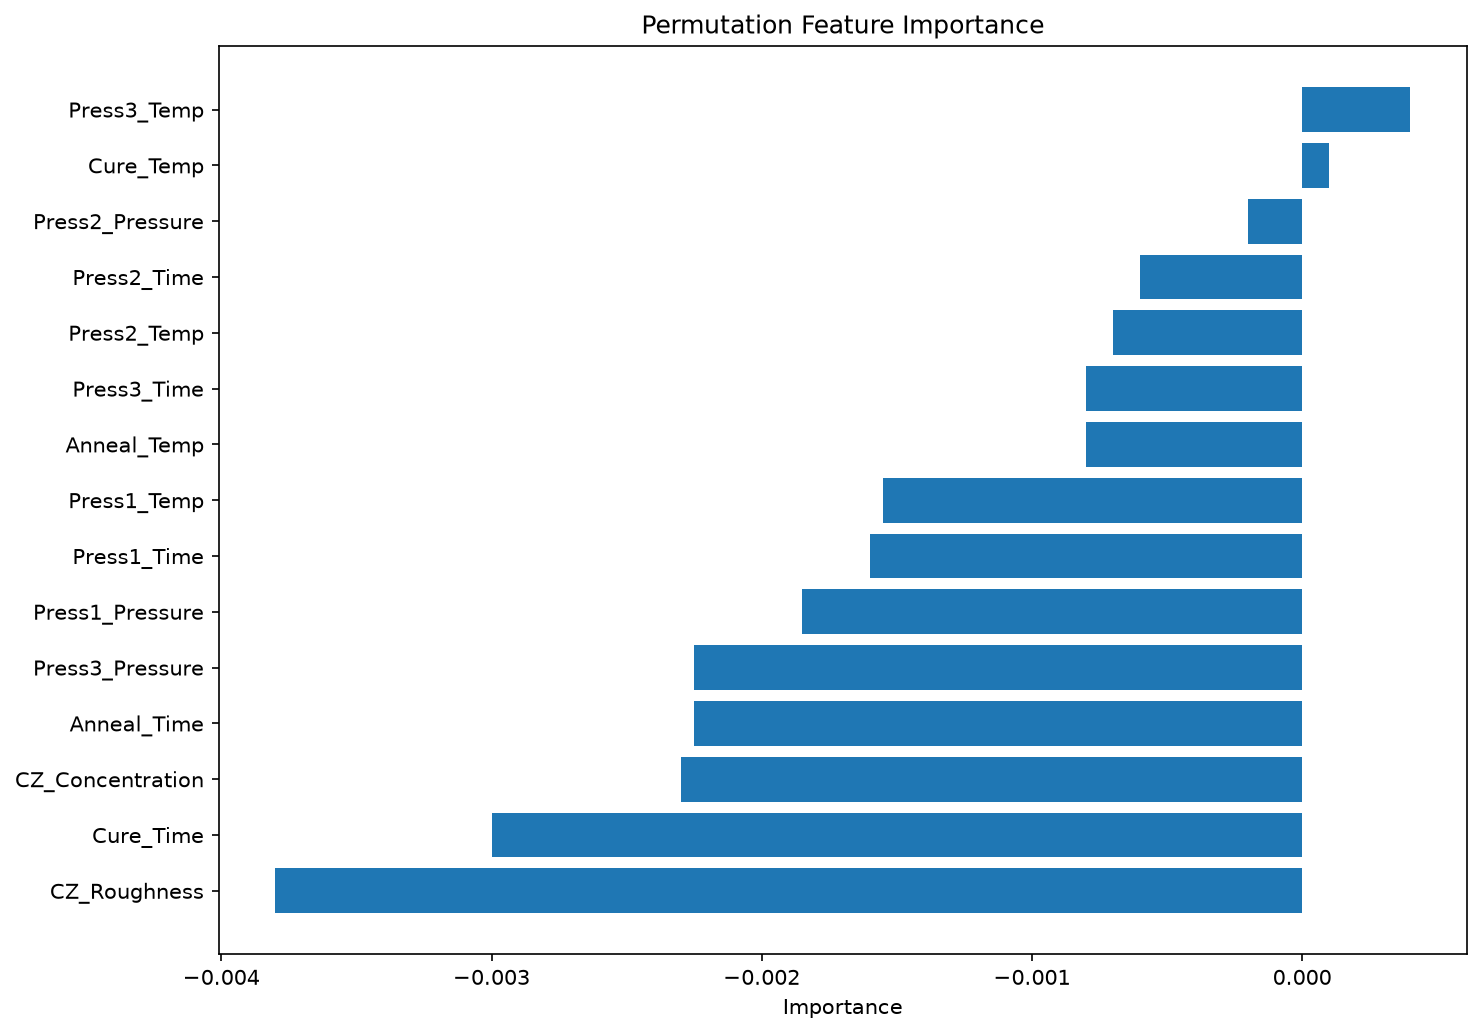
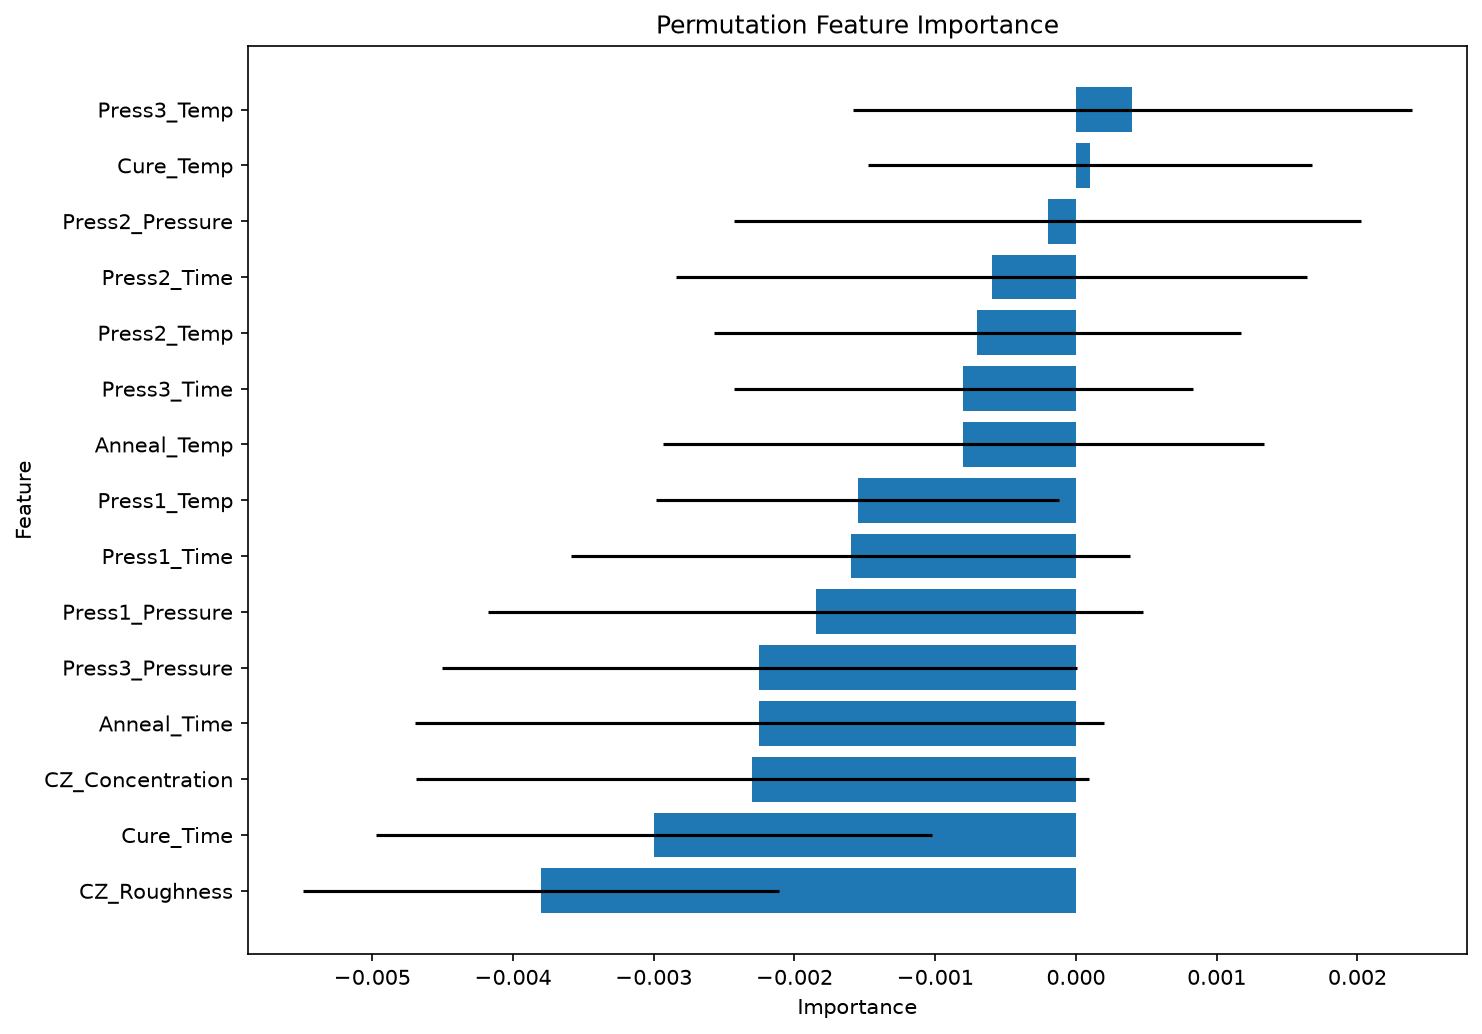
refactor: Apply configuration to random forest analysis

diff --git a/src/ml/random_forest.py b/src/ml/random_forest.py
@@ -8,6 +8,7 @@ from sklearn.inspection import permutation_importance
 from sklearn.metrics import accuracy_score, classification_report
 from sklearn.model_selection import train_test_split
 
+from src.config import CONFIG
 from src.data.loader import load_process_data
 
 
@@ -31,120 +32,153 @@ FEATURES = [
 
 TARGET = "Defect"
 
+RANDOM_STATE = CONFIG["data"]["random_state"]
+TEST_SIZE = CONFIG["model"]["test_size"]
+N_ESTIMATORS = CONFIG["model"]["n_estimators"]
 
-def main():
 
-    project_root = Path(__file__).resolve().parents[2]
+def get_project_root() -> Path:
+    return Path(__file__).resolve().parents[2]
+
+
+def main() -> None:
+    project_root = get_project_root()
 
     image_dir = project_root / "images"
-    image_dir.mkdir(exist_ok=True)
+    image_dir.mkdir(parents=True, exist_ok=True)
 
     report_dir = project_root / "report"
-    report_dir.mkdir(exist_ok=True)
+    report_dir.mkdir(parents=True, exist_ok=True)
 
     df = load_process_data()
 
-    X = df[FEATURES]
+    x = df[FEATURES]
     y = df[TARGET]
 
-    X_train, X_test, y_train, y_test = train_test_split(
-        X,
+    x_train, x_test, y_train, y_test = train_test_split(
+        x,
         y,
-        test_size=0.2,
-        random_state=42,
+        test_size=TEST_SIZE,
+        random_state=RANDOM_STATE,
         stratify=y,
     )
 
     model = RandomForestClassifier(
-        n_estimators=200,
-        random_state=42,
+        n_estimators=N_ESTIMATORS,
+        random_state=RANDOM_STATE,
         class_weight="balanced",
+        n_jobs=-1,
     )
 
-    model.fit(X_train, y_train)
+    model.fit(x_train, y_train)
 
-    pred = model.predict(X_test)
+    prediction = model.predict(x_test)
 
-    accuracy = accuracy_score(y_test, pred)
+    accuracy = accuracy_score(
+        y_test,
+        prediction,
+    )
 
     print("=" * 60)
-    print(f"Accuracy : {accuracy:.4f}")
+    print("Random Forest Analysis")
     print("=" * 60)
+    print(f"Random State: {RANDOM_STATE}")
+    print(f"Test Size: {TEST_SIZE}")
+    print(f"N Estimators: {N_ESTIMATORS}")
+    print(f"Accuracy: {accuracy:.4f}")
+    print()
 
-    print(classification_report(y_test, pred))
+    print("Classification Report")
+    print(
+        classification_report(
+            y_test,
+            prediction,
+            zero_division=0,
+        )
+    )
 
     rf_importance = pd.DataFrame({
         "Feature": FEATURES,
-        "Importance": model.feature_importances_,
+        "RF_Importance": model.feature_importances_,
     }).sort_values(
-        by="Importance",
+        by="RF_Importance",
         ascending=False,
     )
 
-    print("\nRandom Forest Feature Importance")
-    print(rf_importance)
-
-    result = permutation_importance(
+    permutation_result = permutation_importance(
         model,
-        X_test,
+        x_test,
         y_test,
         n_repeats=20,
-        random_state=42,
+        random_state=RANDOM_STATE,
+        n_jobs=-1,
     )
 
-    perm_importance = pd.DataFrame({
+    permutation_df = pd.DataFrame({
         "Feature": FEATURES,
-        "Importance": result.importances_mean,
+        "Permutation_Importance":
+            permutation_result.importances_mean,
+        "Permutation_Std":
+            permutation_result.importances_std,
     }).sort_values(
-        by="Importance",
+        by="Permutation_Importance",
         ascending=False,
     )
 
-    print("\nPermutation Importance")
-    print(perm_importance)
+    importance_df = rf_importance.merge(
+        permutation_df,
+        on="Feature",
+        how="left",
+    )
 
-    perm_importance.to_csv(
-        report_dir / "feature_importance.csv",
+    importance_path = (
+        report_dir
+        / "feature_importance.csv"
+    )
+
+    importance_df.to_csv(
+        importance_path,
         index=False,
         encoding="utf-8-sig",
     )
 
-    plt.figure(figsize=(10,7))
+    plt.figure(figsize=(10, 7))
 
     plt.barh(
-        perm_importance["Feature"],
-        perm_importance["Importance"],
+        permutation_df["Feature"],
+        permutation_df["Permutation_Importance"],
+        xerr=permutation_df["Permutation_Std"],
     )
 
     plt.gca().invert_yaxis()
-
     plt.title("Permutation Feature Importance")
-
     plt.xlabel("Importance")
-
+    plt.ylabel("Feature")
     plt.tight_layout()
 
+    image_path = (
+        image_dir
+        / "permutation_feature_importance.png"
+    )
+
     plt.savefig(
-        image_dir / "permutation_feature_importance.png",
+        image_path,
         dpi=150,
         bbox_inches="tight",
     )
 
     plt.show()
-
     plt.close()
 
-    print("\nTop 5 Important Features")
+    print()
+    print("Top 5 Important Features")
+    print(
+        permutation_df.head(5).to_string(index=False)
+    )
 
-    print(perm_importance.head())
-
-    print("\nCSV 저장 완료")
-
-    print(report_dir / "feature_importance.csv")
-
-    print("\n그래프 저장 완료")
-
-    print(image_dir / "permutation_feature_importance.png")
+    print()
+    print(f"CSV 저장: {importance_path}")
+    print(f"그래프 저장: {image_path}")
 
 
 if __name__ == "__main__":